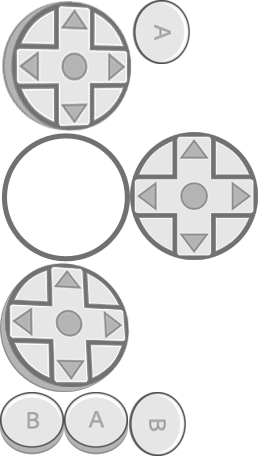
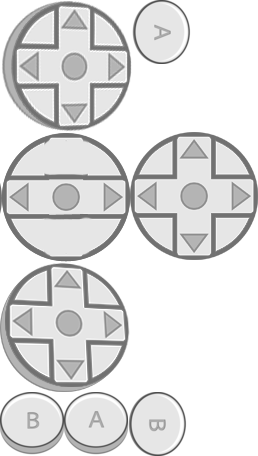
Controls update, see description below
* Sliding between the A and B buttons is now possible, for example as you slide off the Shoot onto the jump button without releasing, it now correctly triggers a jump.

* Modified the art for the pro-swipe control on the dpad sprite sheet. This is placeholder art that will need to be replaced at some point.

Changed region(s): [[0.0, 0.2763, 0.4961, 0.5833]]

diff --git a/GameFroot/Classes/Overlays/Controls.mm b/GameFroot/Classes/Overlays/Controls.mm
@@ -228,16 +228,11 @@
 			}
 			
 		} else if (location.y > size.height - (size.height * 0.40f)) {
-			// Jump
-			[player jump];
-			jumpTouch = touch;
+			[self initJumpWithTouch:touch];
 			
 		} else {
 			// Shoot
-			if (event.timestamp - lastShoot > player.shootDelay) {
-				[player shoot];
-				lastShoot = event.timestamp;
-			}
+			[self initShootWithTouch:touch andEvent:event];
 			
 			// Control swipe
 			gestureStartPoint = location;
@@ -289,21 +284,11 @@
 		} else if ([self dpadB:location]) {
 			
 			if ((dpadTouch == nil) || (dpadTouch != jumpTouch)) {
-				[player jump];
-				jumpTouch = touch;
-                
-				[rightBut setDisplayFrame:[[CCSpriteFrameCache sharedSpriteFrameCache] spriteFrameByName:@"a_button_down.png"]];
+				[self initJumpWithTouch:touch];
 			}
             
 		} else if ([self dpadA:location]) {
-			
-			if (event.timestamp - lastShoot > player.shootDelay) {
-				[player shoot];
-				lastShoot = event.timestamp;
-				shootTouch = touch;
-				
-				[leftBut setDisplayFrame:[[CCSpriteFrameCache sharedSpriteFrameCache] spriteFrameByName:@"b_button_down.png"]];
-			}
+			[self initShootWithTouch:touch andEvent:event];
 		}
 	} else {
         
@@ -315,19 +300,11 @@
             [self processProSwipeTouch:touch withEvent:event andLocation:location];
         }
         
-        if (CGRectContainsPoint(CGRectMake(aButtonTouchArea.origin.x, size.height - aButtonTouchArea.origin.y, aButtonTouchArea.size.width, aButtonTouchArea.size.height), location)) {
-            [rightBut setDisplayFrame:[[CCSpriteFrameCache sharedSpriteFrameCache] spriteFrameByName:@"a_button_down.png"]];
-            jumpTouch = touch;
-            [player jump];
-        }
+        if ([self touchWithinJumpHitArea:location]) {
+            [self initJumpWithTouch:touch];        }
         
-        if (CGRectContainsPoint(CGRectMake(bButtonTouchArea.origin.x, size.height - bButtonTouchArea.origin.y, bButtonTouchArea.size.width, bButtonTouchArea.size.height), location)) {
-             [leftBut setDisplayFrame:[[CCSpriteFrameCache sharedSpriteFrameCache] spriteFrameByName:@"b_button_down.png"]];
-            shootTouch = touch;
-            if (event.timestamp - lastShoot > player.shootDelay) {
-				[player shoot];
-				lastShoot = event.timestamp;
-			}
+        if ([self touchWithinShootHitArea:location]) {
+            [self initShootWithTouch:touch andEvent:event];
         }	
 	}
 
@@ -346,8 +323,7 @@
             rightTouch = nil;
             
         } else if (touch == jumpTouch) {
-            [player resetJump];
-            jumpTouch = nil;
+            [self endJump];
             
         } else if (touch == gestureTouch) {
             
@@ -372,23 +348,18 @@
             [player stop];
             
             if (touch == jumpTouch) {
-                [player resetJump];
-                jumpTouch = nil;
+                [self endJump];
             }
-            
+    
             dpadTouch = nil;
-            
             [self releasedControls];
         }
         
         if (touch == jumpTouch) {
-            [player resetJump];
-            jumpTouch = nil;
-            [rightBut setDisplayFrame:[[CCSpriteFrameCache sharedSpriteFrameCache] spriteFrameByName:@"a_button_up.png"]];
+            [self endJump];
             
         } else if (touch == shootTouch) {
-            shootTouch = nil;
-            [leftBut setDisplayFrame:[[CCSpriteFrameCache sharedSpriteFrameCache] spriteFrameByName:@"b_button_up.png"]];
+            [self endShoot];
         }
     } else {
     	 if (touch == dpadTouch) {
@@ -398,8 +369,7 @@
             [player stop];
              
              // Detect swipe
-             CGFloat diffY = gestureStartPoint.y - location.y;	
-             //CCLOG(@"swipes, diffX:%f, diffY:%f", diffX, diffY);
+             CGFloat diffY = gestureStartPoint.y - location.y;
              
              if (diffY > CONTROLS_PRONE_TRIGGER) {
                  // swipe down
@@ -407,56 +377,20 @@
              }
             
             dpadTouch = nil;
-            
             [self releasedControls];
         }
         
         if (touch == shootTouch) {
-            shootTouch = nil;
-            [leftBut setDisplayFrame:[[CCSpriteFrameCache sharedSpriteFrameCache] spriteFrameByName:@"b_button_up.png"]];
+            [self endShoot];
            
             
         } else if (touch == jumpTouch) {
-            jumpTouch = nil;
-            [player resetJump];
-             [rightBut setDisplayFrame:[[CCSpriteFrameCache sharedSpriteFrameCache] spriteFrameByName:@"a_button_up.png"]];
+            [self endJump];
         }
     }
 }
 
--(void) processProSwipeTouch:(UITouch *)touch withEvent:(UIEvent *)event andLocation:(CGPoint)location {
-    
-    if (dpadTouch == jumpTouch) {
-        [player resetJump];
-        jumpTouch = nil;
-    }
-    
-    if (touch == dpadTouch) {
-        
-        // Process movement
-        float travel = location.x - midPointAnchor;
-        // move if greater than dead spot size
-        if(ABS(travel) > CONTROLS_DEAD_SPOT_SIZE) {
-            if(travel > 0) {
-                [player moveRight];  
-            } else if(travel < 0) {
-                [player moveLeft];  
-            } else {
-                [player stop];  
-            }
-            
-            // if size of swipe is greater than max travel,
-            // move anchorpoint.
-            if(ABS(travel) > CONTROLS_MAX_TRAVEL) {
-                if (travel > 0) {
-                    midPointAnchor += (travel - CONTROLS_MAX_TRAVEL); 
-                } else {
-                    midPointAnchor += (travel + CONTROLS_MAX_TRAVEL);
-                }
-            }
-        }
-    }
-}
+
 
 -(void) ccTouchMoved:(UITouch *)touch withEvent:(UIEvent *)event andLocation:(CGPoint)location
 {
@@ -516,28 +450,43 @@
 				[player prone];
 				leftJoy.rotation = 90;
 				if (dpadTouch == jumpTouch) {
-					[player resetJump];
-					jumpTouch = nil;
+					[self endJump];
 				}
 				
 			} else if ([self dpadEast:location]) {
 				[player moveRight];
 				leftJoy.rotation = 0;
 				if (dpadTouch == jumpTouch) {
-					[player resetJump];
-					jumpTouch = nil;
+					[self endJump];
 				}
 				
 			} else if ([self dpadWest:location]) {
 				[player moveLeft];
 				leftJoy.rotation = 180;
 				if (dpadTouch == jumpTouch) {
-					[player resetJump];
-					jumpTouch = nil;
+					[self endJump];
 				}
 			}
 		}
 	} else {
+        
+        // detect if any shoot or jump touches are now over
+        // the other buttons
+        
+        if (touch == shootTouch) {
+            if ([self touchWithinJumpHitArea:location]) {
+                [self endShoot];
+                [self initJumpWithTouch:touch];
+            }
+        }
+        
+        if(touch == jumpTouch) {
+            if ([self touchWithinShootHitArea:location]) {
+                [self endJump];
+                [self initShootWithTouch:touch andEvent:event];
+            }
+        }
+        
         [self processProSwipeTouch:touch withEvent:event andLocation:location];
     }
 }
@@ -552,6 +501,85 @@
         [player stop];
         rightTouch = nil;
     }
+}
+
+-(void) processProSwipeTouch:(UITouch *)touch withEvent:(UIEvent *)event andLocation:(CGPoint)location {
+    
+    if (dpadTouch == jumpTouch) {
+        [self endJump];
+    }
+    
+    if (touch == dpadTouch) {
+        
+        // Process movement
+        float travel = location.x - midPointAnchor;
+        // move if greater than dead spot size
+        if(ABS(travel) > CONTROLS_DEAD_SPOT_SIZE) {
+            if(travel > 0) {
+                [player moveRight];  
+            } else if(travel < 0) {
+                [player moveLeft];  
+            } else {
+                [player stop];  
+            }
+            
+            // if size of swipe is greater than max travel,
+            // move anchorpoint.
+            if(ABS(travel) > CONTROLS_MAX_TRAVEL) {
+                if (travel > 0) {
+                    midPointAnchor += (travel - CONTROLS_MAX_TRAVEL); 
+                } else {
+                    midPointAnchor += (travel + CONTROLS_MAX_TRAVEL);
+                }
+            }
+        }
+    }
+}
+
+-(void) initShootWithTouch:(UITouch*)touch andEvent:(UIEvent*)event {
+    if (event.timestamp - lastShoot > player.shootDelay) {
+        [player shoot];
+        lastShoot = event.timestamp;
+        shootTouch = touch;
+        if(self.visible) {
+            [leftBut setDisplayFrame:[[CCSpriteFrameCache sharedSpriteFrameCache] spriteFrameByName:@"b_button_down.png"]];
+        }
+
+    }
+}
+
+-(void) initJumpWithTouch:(UITouch*)touch {
+    if(self.visible) {
+        [rightBut setDisplayFrame:[[CCSpriteFrameCache sharedSpriteFrameCache] spriteFrameByName:@"a_button_down.png"]];
+    }
+    jumpTouch = touch;
+    [player jump];
+}
+
+-(void) endShoot {
+    shootTouch = nil;
+    if(self.visible) {
+         [leftBut setDisplayFrame:[[CCSpriteFrameCache sharedSpriteFrameCache] spriteFrameByName:@"b_button_up.png"]];
+    }
+   
+}
+
+-(void) endJump {
+    jumpTouch = nil;
+    [player resetJump];
+    if (self.visible) {
+        [rightBut setDisplayFrame:[[CCSpriteFrameCache sharedSpriteFrameCache] spriteFrameByName:@"a_button_up.png"]]; 
+    }
+}
+
+-(bool) touchWithinJumpHitArea:(CGPoint)point {
+    CGSize size = [[CCDirector sharedDirector] winSize];
+    return CGRectContainsPoint(CGRectMake(aButtonTouchArea.origin.x, size.height - aButtonTouchArea.origin.y, aButtonTouchArea.size.width, aButtonTouchArea.size.height), point);
+}
+
+-(bool) touchWithinShootHitArea:(CGPoint)point {
+    CGSize size = [[CCDirector sharedDirector] winSize];
+    return CGRectContainsPoint(CGRectMake(bButtonTouchArea.origin.x, size.height - bButtonTouchArea.origin.y, bButtonTouchArea.size.width, bButtonTouchArea.size.height), point);
 }
 
 

diff --git a/GameFroot/Classes/Overlays/Controls.h b/GameFroot/Classes/Overlays/Controls.h
@@ -15,7 +15,7 @@
 
 // Pro swipe constants
 #define CONTROLS_MAX_TRAVEL 70
-#define CONTROLS_DEAD_SPOT_SIZE 15
+#define CONTROLS_DEAD_SPOT_SIZE 10
 #define CONTROLS_PRONE_TRIGGER 80
 
 @class Player;
@@ -72,6 +72,12 @@
 -(void) ccTouchEnded:(UITouch *)touch withEvent:(UIEvent *)event andLocation:(CGPoint)location;
 -(void) ccTouchMoved:(UITouch *)touch withEvent:(UIEvent *)event andLocation:(CGPoint)location;
 -(void) ccTouchCancelled:(UITouch *)touch withEvent:(UIEvent *)event andLocation:(CGPoint)location;
--(void) processProSwipeTouch:(UITouch *)touch withEvent:(UIEvent *)event andLocation:(CGPoint)location; 
+-(void) processProSwipeTouch:(UITouch *)touch withEvent:(UIEvent *)event andLocation:(CGPoint)location;
+-(bool) touchWithinJumpHitArea:(CGPoint)point;
+-(bool) touchWithinShootHitArea:(CGPoint)point;
+-(void) initShootWithTouch:(UITouch*)touch andEvent:(UIEvent*)event;
+-(void) initJumpWithTouch:(UITouch*)touch;
+-(void) endShoot;
+-(void) endJump;
 
 @end
